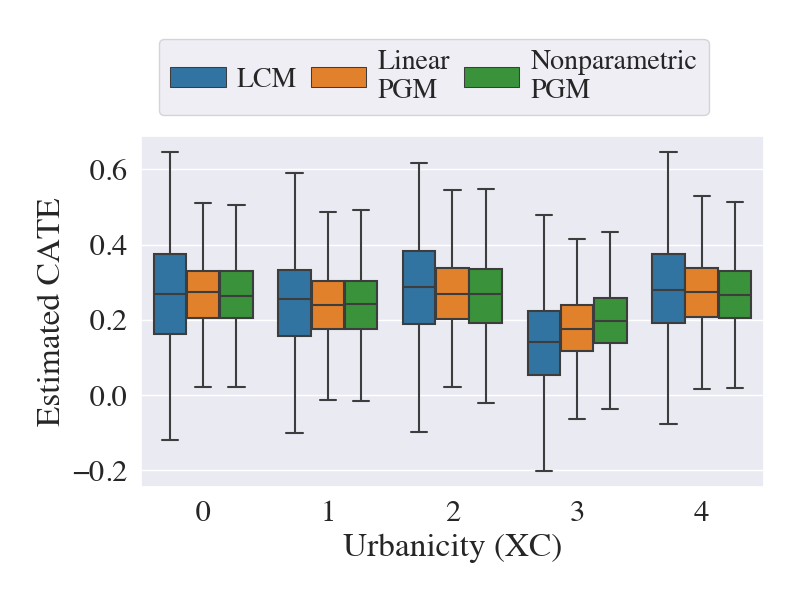
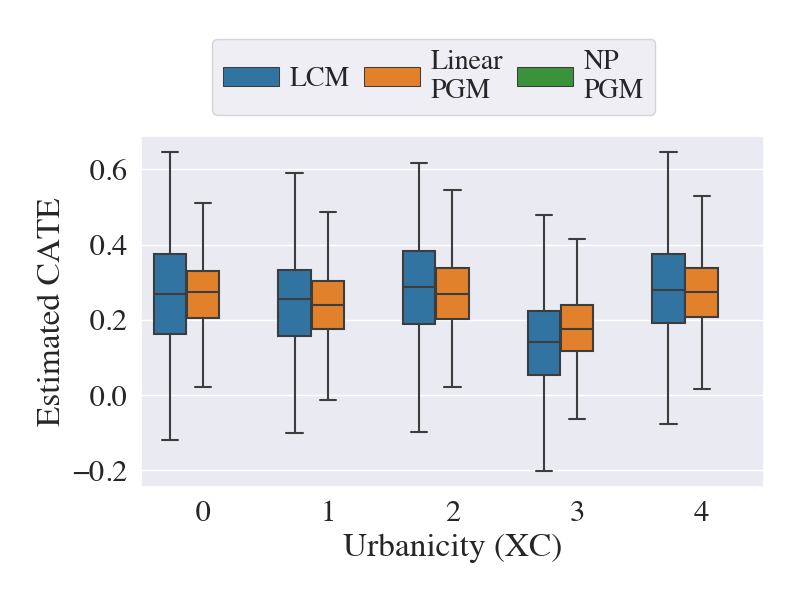
added plots

diff --git a/Experiments/scaling/plotting/scaling.py b/Experiments/scaling/plotting/scaling.py
@@ -107,28 +107,30 @@ palette = {order[i]: sns.color_palette()[i] for i in range(len(order))}
 method_order = [c for c in order if c in samples_times['Method'].unique()]
 markers = ['o', '^', 's']
 
-samples_times[r"# Samples ($\log_2$)"] = np.log2(samples_times['# Samples'].astype(int))
-samples_times[r"# Samples ($\log_2$)"] = samples_times[r"# Samples ($\log_2$)"].astype(int)
+samples_times[r"# Samples $_{\left(\log_2\right)}$"] = np.log2(samples_times['# Samples'].astype(int))
+samples_times[r"# Samples $_{\left(\log_2\right)}$"] = samples_times[r"# Samples $_{\left(\log_2\right)}$"].astype(int)
 
-covs_times[r"# Covariates ($\log_2$)"] = np.log2(covs_times['# Covariates'].astype(int))
-covs_times[r"# Covariates ($\log_2$)"] = covs_times[r"# Covariates ($\log_2$)"].astype(int)
+covs_times[r"# Covariates $_{\left(\log_2\right)}$"] = np.log2(covs_times['# Covariates'].astype(int))
+covs_times[r"# Covariates $_{\left(\log_2\right)}$"] = covs_times[r"# Covariates $_{\left(\log_2\right)}$"].astype(int)
 
 
 sns.set_context("paper")
 sns.set_style("darkgrid")
-sns.set(font_scale=1)
-fig, axes = plt.subplots(1, 2)
-sns.pointplot(ax=axes[0], data=samples_times, x=r"# Samples ($\log_2$)", y='Time (s)',
+sns.set(font_scale=2, font="times")
+fig, axes = plt.subplots(1, 2, figsize=(9, 6))
+sns.pointplot(ax=axes[0], data=samples_times, x=r"# Samples $_{\left(\log_2\right)}$", y='Time (s)',
               errorbar='sd', hue='Method',
               hue_order=method_order, palette=palette, markers=markers, scale=1.25)
-sns.pointplot(ax=axes[1], data=covs_times, x=r"# Covariates ($\log_2$)", y='Time (s)',
+sns.pointplot(ax=axes[1], data=covs_times, x=r"# Covariates $_{\left(\log_2\right)}$", y='Time (s)',
               errorbar='sd', hue='Method',
               hue_order=method_order, palette=palette, markers=markers, scale=1.25)
 handles, labels = axes[0].get_legend_handles_labels()
-fig.legend(handles, labels, loc='center', bbox_to_anchor=(0.5, 1.05), ncol=3)
+fig.legend(handles, labels, loc="lower center", bbox_to_anchor=(.53, 0.93),
+           ncol=3, fontsize=22, handletextpad=0.2,
+           columnspacing=0.5, markerscale=2)
 for ax in axes:
     ax.get_legend().remove()
-    # ax.set_xscale('log', base=2)
     ax.set_yscale('log')
+axes[1].set_ylabel(ylabel=None)
 fig.tight_layout()
 fig.savefig(f'scaling.png', bbox_inches='tight')

diff --git a/Experiments/schools/replot.py b/Experiments/schools/replot.py
@@ -7,43 +7,26 @@ import matplotlib
 
 results_folder = 'Results'
 save_folder = 'Final_Plots'
-method_order = ['LCM', 'Linear\nPGM', 'Nonparametric\nPGM']
+method_order = ['LCM', 'Linear\nPGM', 'NP\nPGM']
 palette = {method_order[i]: sns.color_palette()[i] for i in range(len(method_order))}
 
 rename_methods = {
-    'LCM': 'LCM',
-    'Linear\nPrognostic Score': 'Linear PGM',
-    'Ensemble\nPrognostic Score': 'Nonparametric PGM'
+    'Nonparametric\nPGM': 'NP\nPGM'
 }
 
-cat_diff_df = pd.read_csv(f'{results_folder}/categorical_diff.csv', index_col=[0])
 cont_diff_df = pd.read_csv(f'{results_folder}/continuous_diff.csv', index_col=[0])
-cat_diff_df['Method'] = cat_diff_df['Method'].replace(rename_methods)
 cont_diff_df['Method'] = cont_diff_df['Method'].replace(rename_methods)
 
-categorical = ['XC_1', 'C1_4', 'C1_5', 'C2']
-
-cat_diff_df['% Mismatch'] *= 100
-
+plt.figure(figsize=(5, 6))
 sns.set_context("paper")
 sns.set_style("darkgrid")
-sns.set(font_scale=3.3, font="times")
-fig, axes = plt.subplots(1, 2, figsize=(18, 9))
-sns.barplot(ax=axes[1], data=cat_diff_df, x='Covariate',
-            y='% Mismatch', hue='Method', errorbar=None,
-            hue_order=[c.replace('_', '=') for c in categorical].sort())
-sns.boxplot(ax=axes[0], data=cont_diff_df, x='Covariate',
-            y='Mean Absolute Difference', hue='Method', showfliers=False)
-handles, labels = axes[0].get_legend_handles_labels()
-fig.legend(handles, labels, loc="lower center", bbox_to_anchor=(.55, 0.93),
-           ncol=3, fontsize=40, handletextpad=0.4,
-           columnspacing=0.5)
-for ax in axes:
-    ax.set(xlabel=None)
-    ax.get_legend().remove()
-axes[1].yaxis.set_major_formatter(ticker.PercentFormatter())
-fig.tight_layout()
-fig.savefig(f'{save_folder}/all_mg.png', bbox_inches='tight')
+sns.set(font_scale=2, font="times")
+ax = sns.boxplot(data=cont_diff_df, x='Covariate',
+                 y='Mean Absolute Difference', hue='Method', showfliers=False)
+sns.move_legend(ax, "lower center", bbox_to_anchor=(.43, 1), ncol=3, title=None,
+                handletextpad=0.4, columnspacing=0.5, fontsize=18)
+plt.tight_layout()
+ax.get_figure().savefig(f'{save_folder}/mg_diff.png')
 
 
 df_orig = pd.read_csv(f'{os.getenv("SCHOOLS_FOLDER")}/df.csv')

diff --git a/Experiments/scaling/plotting/accuracy.py b/Experiments/scaling/plotting/accuracy.py
@@ -52,17 +52,17 @@ order = ['LCM', 'Linear PGM', 'Ensemble PGM', 'MALTS', '', '', 'GenMatch']
 palette = {order[i]: sns.color_palette()[i] for i in range(len(order))}
 method_order = [c for c in order if c in full_errors['Method'].unique()]
 
-full_errors['# Covariates (log2)'] = np.log2(full_errors['# Covariates'])
-full_errors['# Covariates (log2)'] = full_errors['# Covariates (log2)'].astype(int)
+full_errors[r'# Covariates $_{\left(\log_2\right)}$'] = np.log2(full_errors['# Covariates'])
+full_errors[r'# Covariates $_{\left(\log_2\right)}$'] = full_errors[r'# Covariates $_{\left(\log_2\right)}$'].astype(int)
 
 plt.figure(figsize=(8, 6))
 sns.set_context("paper")
 sns.set_style("darkgrid")
 sns.set(font_scale=2, font="times")
-ax = sns.boxplot(data=full_errors, x="# Covariates (log2)", y="Relative Error (%)",
+ax = sns.boxplot(data=full_errors, x=r"# Covariates $_{\left(\log_2\right)}$", y="Relative Error (%)",
                  hue='Method', hue_order=method_order, palette=palette,
                  showfliers=False)
-sns.move_legend(ax, "lower center", bbox_to_anchor=(.47, 1.02), ncol=3,
+sns.move_legend(ax, "lower center", bbox_to_anchor=(.47, 0.98), ncol=3,
                 title=None, handletextpad=0.4, columnspacing=0.5, fontsize=20)
 ax.yaxis.set_major_formatter(ticker.PercentFormatter())
 plt.tight_layout()
